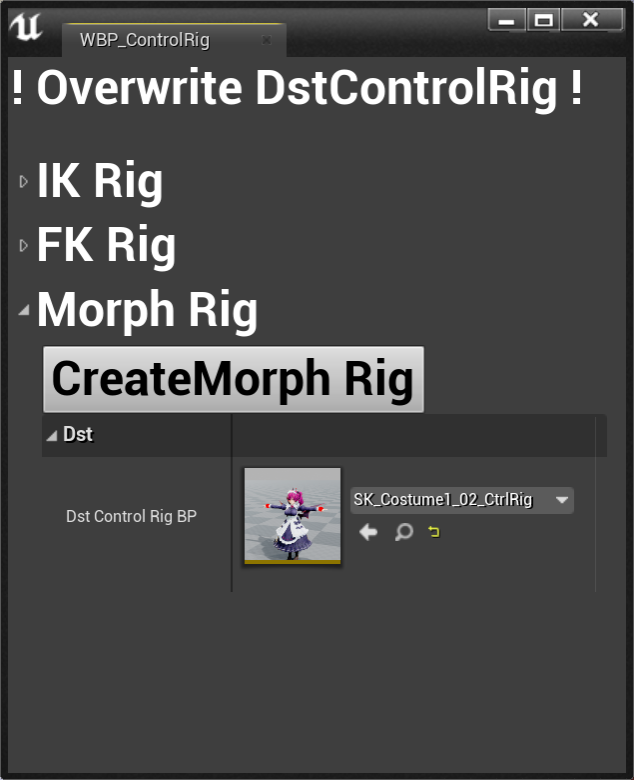
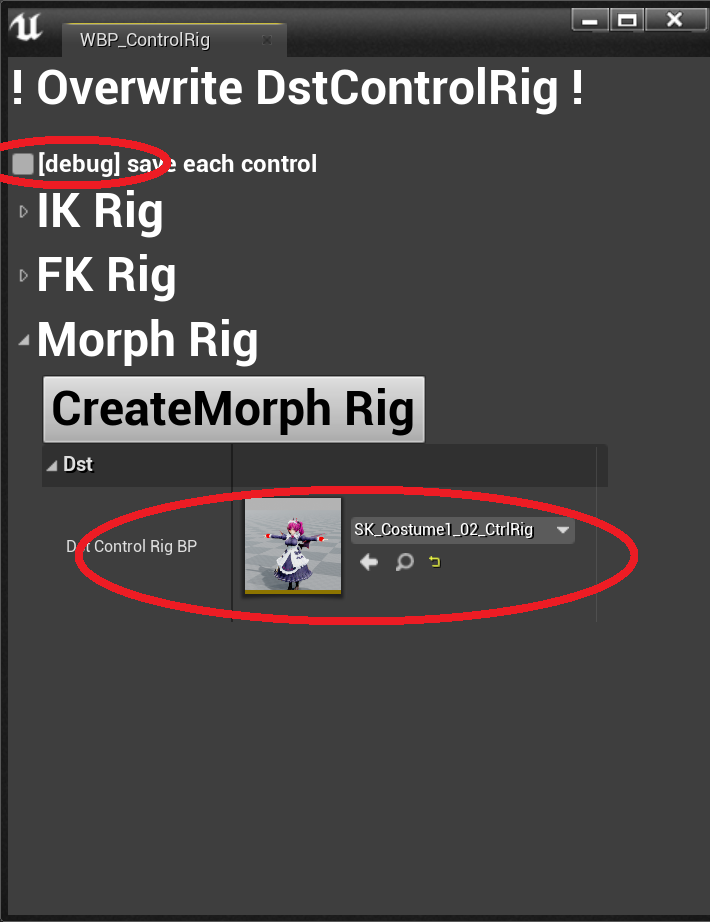
morphのクラッシュ対策を追記

Changed region(s): [[0.0, 0.0, 1.0, 1.0], [0.0, 0.9846, 0.03, 1.0]]

diff --git a/VRM4U/06_controlrig.md b/VRM4U/06_controlrig.md
@@ -101,7 +101,10 @@ IKテンプレートとほぼ同じ手順で利用できます。
 
 `CR_VRoidSimpleMorph`を複製(duplicate)しモデルを差し替え、複製UIのMorphRigにセットしてCreateしてください。VrmAssetListは不要です。
 
-|MorphRig にセット|
+エディタが停止してしまう場合は、上部のオプションを有効化してください。途中経過が保存されます。停止後、再度同じRigをセットしてCreateを繰り返すと処理が完了します。
+{: .notice--info}
+
+|MorphRig にセット。エディタが停止する場合は上部のチェックONで2～3回繰り返す|
 |-|
 |[![](./assets/images/small/06a_ui3.png)](../assets/images/06a_ui3.png)|
 
